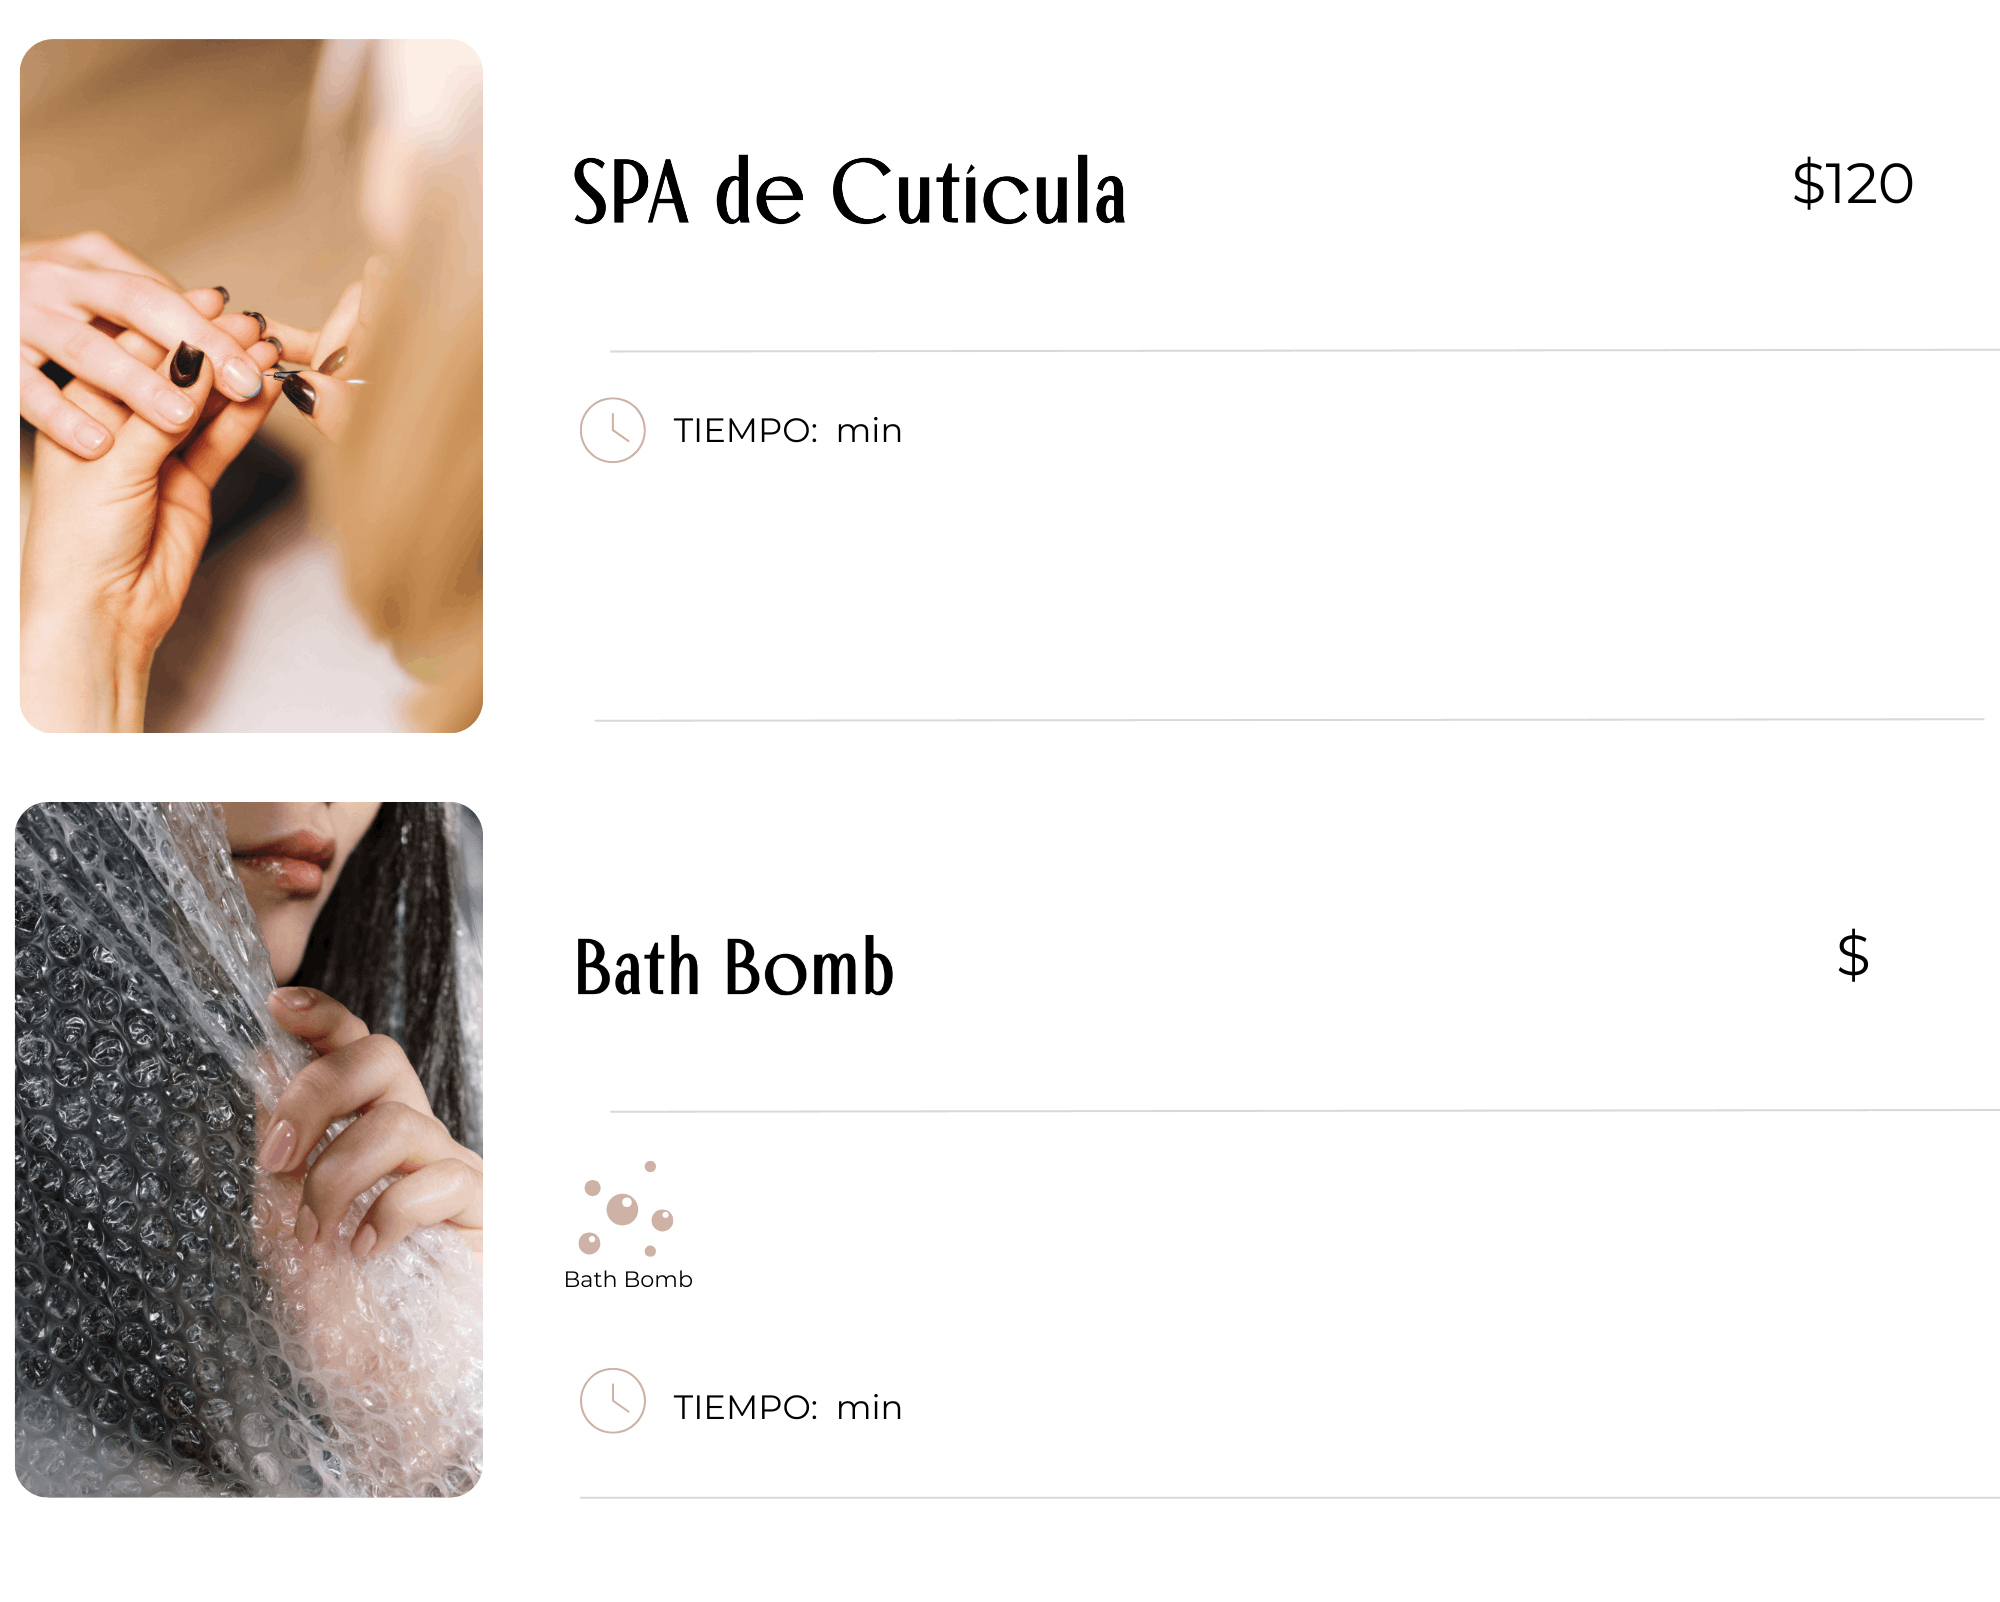
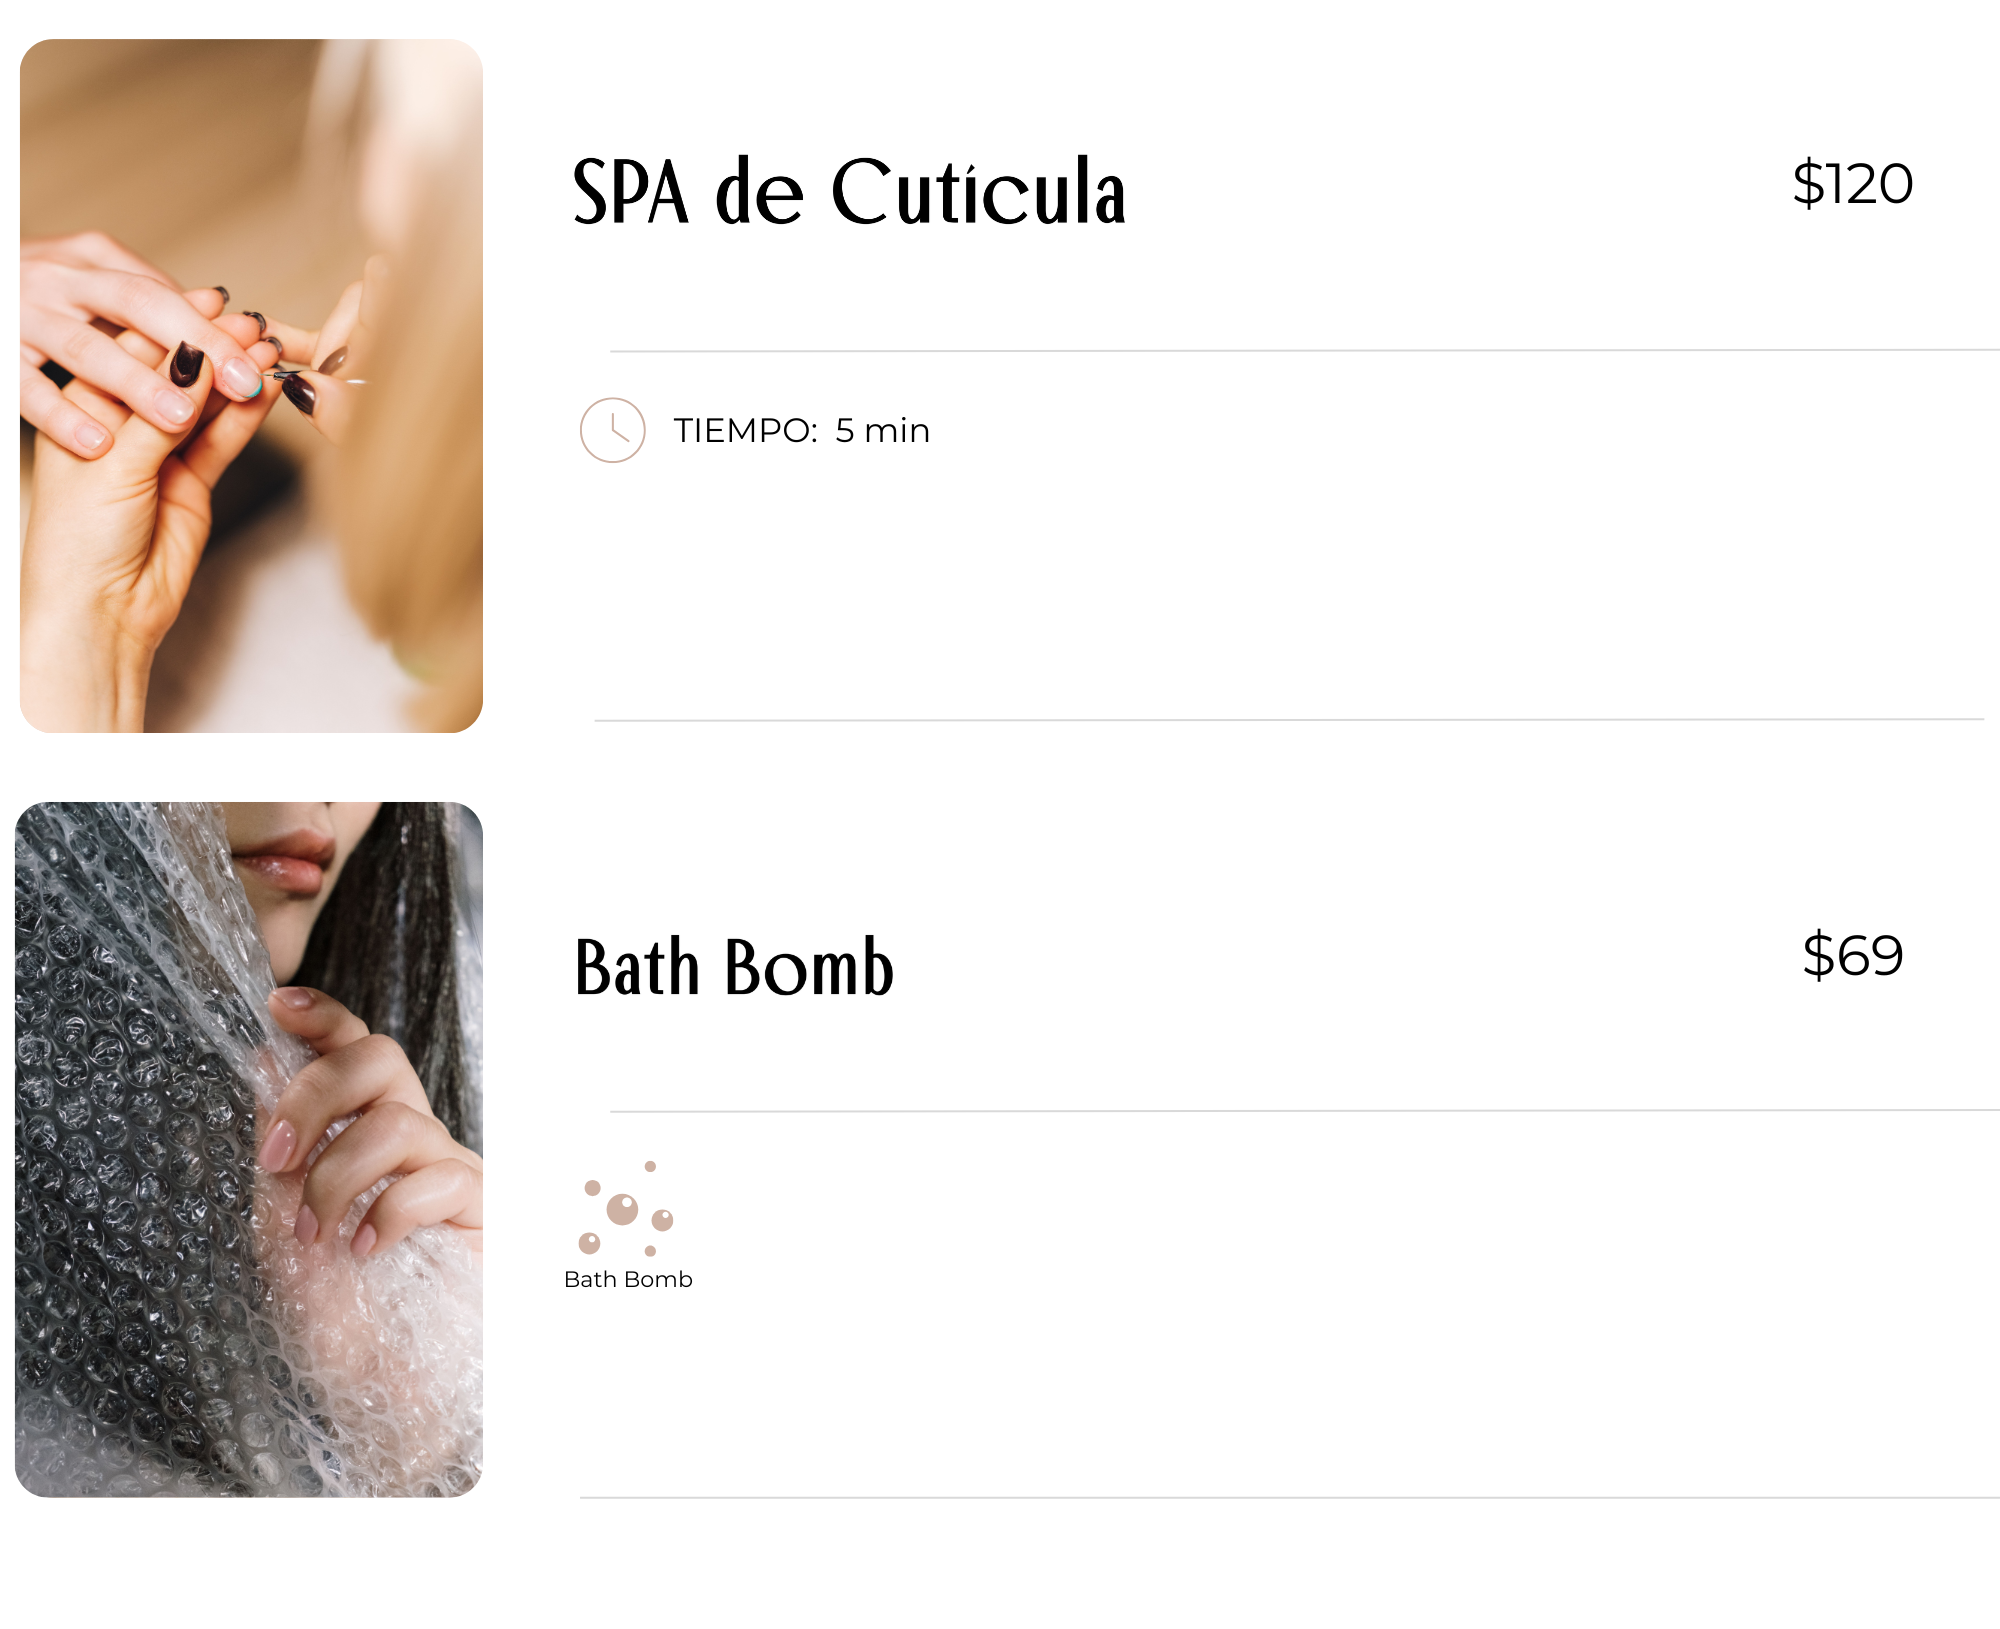
Add files via upload

diff --git a/servicio.html b/servicio.html
@@ -150,7 +150,7 @@
     <div class="row justify-content-center col-12 mt-3" style="margin: 0px auto; margin-top: 0px;">
     <img class="imagen col-12" style="border-radius:" src="img/servicio.png" >
   </div>
-  <div class="row justify-content-center col-12" style="margin: 0px auto; margin-top: -45px;">
+  <div class="row justify-content-center col-12" style="margin: 0px auto; margin-top: -40px;">
     <img class="imagen col-12" style="border-radius:" src="img/servicio2.png" >
   </div>
     </main>